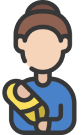
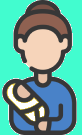
headẻ

diff --git a/src/components/Header/Header.jsx b/src/components/Header/Header.jsx
@@ -32,6 +32,20 @@ export default function Header() {
     navigate('/register')
   }
 
+  let imgbg, timerandom, colorX
+  const hash = '#',
+    zeroString = '000000'
+  setTimeout(() => {
+    imgbg = document.querySelector('img')
+  }, 100)
+
+  setInterval(() => {
+    timerandom = Math.floor(Math.random() * 100)
+    if (timerandom > 70) {
+      colorX = Math.round(0xffffff * Math.random()).toString(16)
+      imgbg.style.backgroundColor = hash + zeroString.substring(0, 6 - colorX.length) + colorX
+    }
+  }, 1000)
   return (
     <header className='bg-white w-full h-full flex items-center justify-between border border-b-black  '>
       <Link to='/'>

diff --git a/src/page/Home/Home.jsx b/src/page/Home/Home.jsx
@@ -3,7 +3,6 @@ import bg from '../../asset/img/bg.png'
 import { AppContext } from '../../contexts/app.context'
 import { FaBabyCarriage } from 'react-icons/fa'
 import { TbChefHat } from 'react-icons/tb'
-
 export default function Home() {
   const { info } = useContext(AppContext)
   console.log(info?.roles)
@@ -18,7 +17,6 @@ export default function Home() {
             COOKCARE
           </div>
         </div>
-
         {/* <button className='bg-[#87FDE8] mx-5 font-ankokuzonji text-5xl py-12 w-full rounded-full'>
             お前はもう死んでいる
           </button> */}

diff --git a/src/declare.d.ts b/src/declare.d.ts
@@ -1,0 +1,1 @@
+declare module 'react-chrome-dino'
